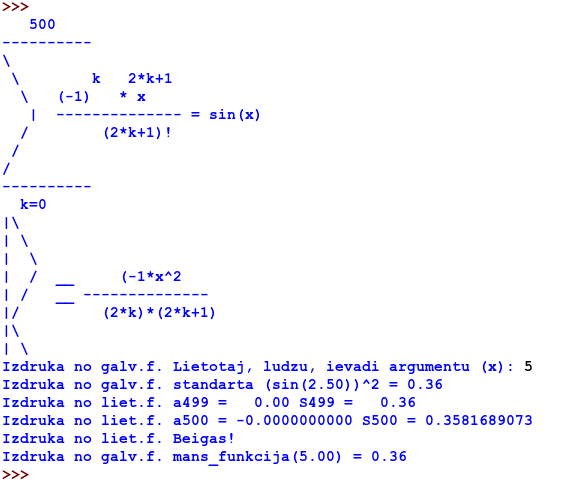
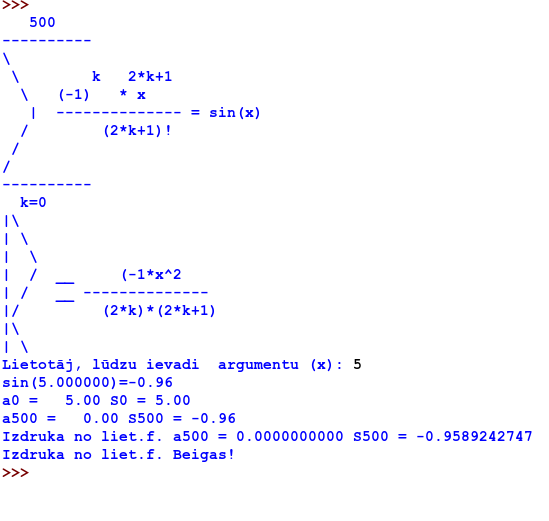
20180125_19_10

diff --git a/PYTHON/sin_caur_summu_.py b/PYTHON/sin_caur_summu_.py
@@ -23,33 +23,33 @@ print"|/         (2*k)*(2*k+1)"
 print"|\ "
 print"| \ "
 
+x  = 1. * input("Lietotāj, lūdzu ievadi  argumentu (x): ")
+y = sin(x)
+print "sin(%2f)=%.2f"%(x,y)
 
-def mans_funkcija(x):
-    k = 1
-    a = (-1)**2*x**2/(2*2)
-    S = a
-    #print "Izdruka no liet.f. a0 = %6.2f S0 = %6.2f"%(a,S)
+k = 0
+a = (-1)**0*x**1/(1)
+S = a
+print "a0 = %6.2f S0 = %.2f"%(a,S)
 
-    while k < 500: 
-        k = k + 1
-        R = (-1) * x**2/((2*k-1)*(2*k))
-        a = a * R
-        S = S + a
-        if k == 1:
-            print "Izdruka no liet.f. a%d = %6.2f S%d = %6.2f"%(k,a,k,S)
-        elif k == 499:
-            print "Izdruka no liet.f. a%d = %6.2f S%d = %6.2f"%(k,a,k,S)
-        elif k == 500:
-            print "Izdruka no liet.f. a%d = %6.10f S%d = %6.10f"%(k,a,k,S)  
+
+#while k <= 3 # 0<=3 (1), 1<=3 (2), 2<=3 (3), 3<=3 (3), 3<=3 (4)
+while k < 500:   
+    k = k + 1
+    a = a * (-1) * x**2/((2*k)*(2*k+1))
+    S = S + a
+print "a%d = %6.2f S%d = %.2f"%(k,a,k,S)
+
+if k == 1:
+ print "Izdruka no liet.f. a%d = %6.2f S%d = %6.2f"%(k,a,k,S)
+elif k == 499:
+ print "Izdruka no liet.f. a%d = %6.2f S%d = %6.2f"%(k,a,k,S)
+elif k == 500:
+ print "Izdruka no liet.f. a%d = %6.10f S%d = %6.10f"%(k,a,k,S)  
     
-      
+    
         
-    print "Izdruka no liet.f. Beigas!"
-    return S
+print "Izdruka no liet.f. Beigas!"
+    
 
 
-x = 1. *  input("Izdruka no galv.f. Lietotaj, ludzu, ievadi argumentu (x): ")
-y = sin(x/2)**2
-print "Izdruka no galv.f. standarta (sin(%.2f))^2 = %.2f"%(x/2,y)
-yy = mans_funkcija(x) #funkcija izpilde un pieðíirðana
-print "Izdruka no galv.f. mans_funkcija(%.2f) = %.2f"%(x,yy)
